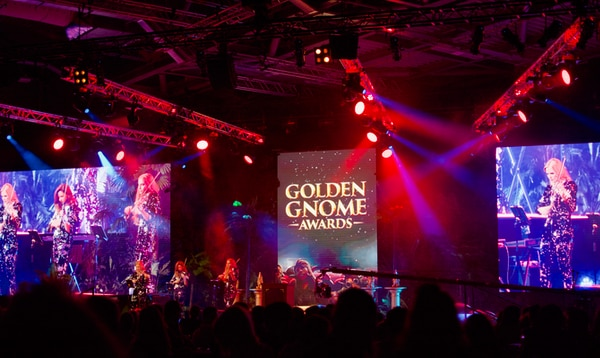
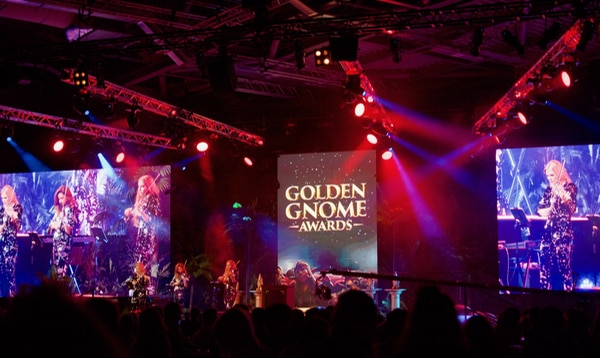
support p3 color gamut in modal

diff --git a/index.html b/index.html
@@ -46,7 +46,6 @@
         </div>
     </header>
     <main class="container">
-        <!-- <button class="toogle button" type="button">toogle</button> -->
         <!-- INTRO -->
         <section>
             <p>Riblet's big words here. 2020 has been a humanitarian disaster on a global scale and a fantastic year of growth for the RuneScapes Wiki. We are Weird Gloop, the organisation behind the sites, and we'd like to share this year's successes with you.</p>
@@ -315,15 +314,15 @@
         <!-- TECHNICAL -->
         <section>
             <h2 id="technical">Technical changes</h2>
-            <p>This past November, we made some big changes to how we handle Grand Exchange prices. We moved historical price data off the wikis to <a class="link" target="_blank" rel="noopener" href="https://api.weirdgloop.org/">api.weirdgloop.org</a>, stopped updating each item's module page in favor of putting all prices in a single bulk module, and deleted old revisions of those item module pages (which contained historical data).</p>
-            <p>By doing so, we deleted roughly 73% of all revisions on the site, including 66% of <abbr title="RuneScape Wiki">RSW</abbr>, 84% of <abbr title="Old School RuneScape Wiki">OSRSW</abbr>, and 95% of <abbr title="Portuguese-Brazilian RuneScape Wiki">pt-RSW</abbr>. This has a huge impact on the portability of the database, both for migrations and possible future ephemeral versions of the wikis. Our Grand Exchange bot also now makes around a dozen edits a day instead of 18,000, which means better performance for caching, the job queue, and our web servers.</p>
-            <p>Third-party scrapers can use our new API (which is heavily cached) instead of hitting our wiki web servers. We hope this makes it easier for people to make cool things that rely on Grand Exchange prices, especially since the official APIs are difficult to use programmatically.</p>
+            <p>This past November, we made some big changes to how we handle Grand Exchange prices. We moved historical price data off the wikis to <a class="link" target="_blank" rel="noopener" href="https://api.weirdgloop.org/">api.weirdgloop.org</a>, stopped updating individual items' pages in favor of accessing prices from a single bulk module, and deleted old revisions of those item pages.</p>
+            <p>By doing so, we removed roughly 73% of all revisions on the site, including 66% of <abbr title="RuneScape Wiki">RSW</abbr>, 84% of <abbr title="Old School RuneScape Wiki">OSRSW</abbr>, and 95% of <abbr title="Portuguese-Brazilian RuneScape Wiki">pt-RSW</abbr>. This has a huge impact on the portability of the database, both for migrations and possible future ephemeral versions of the wikis. Our Grand Exchange bot now makes around a dozen edits a day instead of 18,000 (one for each item), which means better performance for caching, the job queue, and our web servers.</p>
+            <p>Third-party scrapers can use <a class="link" target="_blank" rel="noopener" href="https://api.weirdgloop.org/">our new API</a>, which is heavily cached, instead of hitting our wiki web servers. We hope this makes it easier for people to make cool things that rely on Grand Exchange prices, especially since the official APIs are difficult to use programmatically. (REPLACE THIS SENTENCE)</p>
         </section>
         <!-- QUIZ -->
         <section>
             <h2 id="quiz">Trivia quiz</h2>
             <p>Riblet's big words here. Riblet's big words here. Riblet's big words here. Riblet's big words here. Riblet's big words here. Riblet's big words here. Riblet's big words here. Riblet's big words here.</p>
-            <p class="pick">Choose a version of the game to start. If you want to try both, you'll get the opportunity to choose again when you've finished the first quiz.</p>
+            <p>Choose a version of the game to start. If you want to try both, you'll get the opportunity to choose again when you've finished the first quiz.</p>
             <div class="quiz"></div>
             <div class="quiz-results"></div>
             <template class="template-group">
@@ -340,7 +339,10 @@
             <h2 id="closing">In memoriam</h2>
             <p>Something about how happy we are to have won Community Champion in this year's <a class="link" target="_blank" rel="noopener" href="https://secure.runescape.com/m=news/10th-annual-golden-gnome-awards-the-winners-are-revealed">10th Annual Golden Gnome Awards</a>. Thank readers, editors, etc. Riblet's big words here. Riblet's big words here. Riblet's big words here.</p>
             <figure class="figure">
-                <img class="thumb" src="images/runefest-thumb.jpg" srcset="images/runefest-thumb@2x.jpg 2x" data-src="images/runefest-full.jpg" alt="The Golden Gnome Awards at RuneFest 2019" />
+                <picture class="picture" data-src-full="images/runefest-full.jpg" data-src-full-p3="images/runefest-full-p3.jpg">
+                    <source media="(color-gamut: p3)" srcset="images/runefest-thumb-p3.jpg, images/runefest-thumb-p3@2x.jpg 2x" />
+                    <img class="thumb" src="images/runefest-thumb.jpg" srcset="images/runefest-thumb@2x.jpg 2x" alt="Musicians performing onstage at the Golden Gnome Awards during RuneFest 2019" />
+                </picture>
                 <figcaption>The Golden Gnome Awards at RuneFest 2019. Unfortunately, we couldn't be there in person this year.</figcaption>
             </figure>
             <p>Paragraph about how you can get involved. Talk about OSWF, previous projects, future projects, how to sign up, how to access the wiki from in-game. Riblet's big words here. Riblet's big words here. Riblet's big words here. Riblet's big words here. Riblet's big words here. Riblet's big words here. Riblet's big words here. Riblet's big words here.</p>

diff --git a/scripts/main.js b/scripts/main.js
@@ -340,7 +340,7 @@
                     text: "Traffic rises as COVID-19 lockdowns begin"
                 }, {
                     x: "2020/05/01",
-                    text: "Traffic drops as US states gradually reopen",
+                    text: "Traffic drops as countries worldwide reopen",
                     tickHeight: 15
                 }, {
                     x: "2020/06/04",
@@ -420,7 +420,6 @@
                 button.classList.add('quiz-start', 'button');
                 button.textContent = text;
                 button.addEventListener('click', function () {
-                    get('.pick').style.display = 'none';
                     get('.quiz-button-group').remove();
                     setupQuestions(game);
                 }, false);
@@ -528,8 +527,7 @@
             function showResults() {
                 let resultsNode = get('.quiz-results'),
                     scoreNode = document.createElement('h3'),
-                    descNode = document.createElement('p'),
-                    score = correct / total;
+                    descNode = document.createElement('p');
 
                 resultsNode.style.display = 'block';
                 resultsNode.appendChild(scoreNode);
@@ -539,16 +537,15 @@
                 scoreNode.style.fontSize = '1.25em';
                 descNode.style.marginBottom = '0';
 
-                // @TODO: write nicer messages
-                if (score >= 0.7) {
-                    descNode.textContent = 'Very good. If you haven\'t already, you should sign up for our OSWF tasks and help us blahblah.';
-                } else if (score > 0.3) {
-                    descNode.textContent = 'it\'s okay i guess.';
+                if (correct >= 7) {
+                    descNode.innerHTML = 'Very good. You should consider helping us with our <a class="link" target="_blank" rel="noopener" href="https://runescape.wiki/w/RuneScape:One_Small_Wiki_Favour">RS Wiki</a> and <a class="link" target="_blank" rel="noopener" href="https://oldschool.runescape.wiki/w/RuneScape:One_Small_Wiki_Favour">OSRS Wiki projects</a> – we\'ll even pay you for your hard work!';
+                } else if (correct >= 4) {
+                    descNode.textContent = 'Not too bad.';
                 } else {
-                    descNode.textContent = 'you fuckin idiot. consider reading the runescape wiki for once in your life.';
+                    descNode.textContent = 'Maybe you should spend a little more time on the wiki.';
                 }
 
-                descNode.innerHTML += ' Would you like to try <span class="link reset-quiz" role="button">our other quiz</span>?';
+                descNode.innerHTML += '<br style="content: \'\'; display: block; margin-bottom: .75em;" /><span class="link reset-quiz" role="button">Click here to try the other quiz →</span>';
                 get('.reset-quiz').addEventListener('click', resetQuiz, false);
 
                 function resetQuiz() {
@@ -558,7 +555,6 @@
                     resultsNode.textContent = '';
                     resultsNode.removeAttribute('style');
 
-                    get('.pick').style.display = 'block';
                     get('#quiz').scrollIntoView({behavior: 'smooth'});
                     buildQuiz();
                 }
@@ -566,16 +562,21 @@
         }
     }
 
-    function initImage() {
-        let thumb = get('.thumb');
+    function initModal() {
+        let picture = get('.picture');
+        let src = 'srcFull';
 
-        thumb.addEventListener('mouseover', preloadFullImage, { once: true });
-        thumb.addEventListener('click', showModal, false);
+        // use different image depending on if user's display supports P3
+        // <https://webkit.org/blog/10042/wide-gamut-color-in-css-with-display-p3/>
+        if (window.matchMedia('(color-gamut: p3)').matches) src = 'srcFullP3';
+
+        picture.addEventListener('mouseover', preloadFullImage, { once: true });
+        picture.addEventListener('click', showModal, false);
 
         function preloadFullImage(event) {
             let preloader = document.createElement('link');
 
-            preloader.href = event.currentTarget.dataset.src;
+            preloader.href = event.currentTarget.dataset[src];
             preloader.rel = 'preload';
             preloader.as = 'image';
 
@@ -593,23 +594,24 @@
             modal.addEventListener('click', closeModal, false);
 
             image.classList.add('image');
-            image.src = event.currentTarget.dataset.src;
+            image.src = event.currentTarget.dataset[src];
 
             note.classList.add('note');
             note.textContent = 'Click anywhere or press Esc to close.';
 
-            document.addEventListener('keydown', escToClose, false);
             document.body.style.overflow = 'hidden';
             document.body.appendChild(modal);
-        }
-
-        function escToClose(event) {
-            if (event.key === 'Escape') closeModal();
+            document.addEventListener('keydown', escToClose, false);
         }
 
         function closeModal() {
             get('.modal').remove();
             document.body.removeAttribute('style'); // unset overflow: hidden
+            document.removeEventListener('keydown', escToClose, false);
+        }
+
+        function escToClose(event) {
+            if (event.key === 'Escape') closeModal();
         }
     }
 
@@ -618,5 +620,5 @@
     initTabs();
     initGraph();
     initQuiz();
-    initImage();
+    initModal();
 }());

diff --git a/styles/main.css b/styles/main.css
@@ -156,6 +156,14 @@ p abbr {
     text-decoration: underline;
 }
 
+.thumb {
+    display: block;
+    max-width: 100%;
+    border-radius: var(--border-radius);
+    box-shadow: var(--shadow-02);
+    margin: auto;
+}
+
 /* hide focus ring when using a mouse (but keep it for keyboard navigation)
    using polyfill from <https://github.com/WICG/focus-visible> */
 .js-focus-visible :focus:not(.focus-visible) {
@@ -572,12 +580,16 @@ section + section {
 
 .button:hover,
 .button:focus {
-    filter: brightness(.95) saturate(1.3);
+    filter: brightness(.96) saturate(2);
 }
 
 /* ------------
        TABS
    ------------ */
+
+.tab-container {
+    margin-top: 2em;
+}
 
 .tab-list {
     --tab-count: 4;
@@ -591,7 +603,7 @@ section + section {
     background-color: var(--bg-01);
     border-radius: calc(var(--border-radius) + var(--tab-gap));
     box-shadow: inset 0 2px 4px -1px rgba(0, 0, 0, .025);
-    margin: 2em auto 1em;
+    margin: 0 auto 1em;
     width: 85%;
     max-width: 32em;
 }
@@ -680,7 +692,7 @@ section + section {
     display: grid;
     grid-template-columns: repeat(3, 1fr);
     grid-gap: 1em;
-    margin: 0 var(--breakout-margin) 3.5em;
+    margin: 0 var(--breakout-margin);
 }
 
 .stat {
@@ -859,7 +871,7 @@ section + section {
     background-color: var(--bg-03);
     border-radius: var(--border-radius);
     padding: 1.5em 1.75em 1.35em;
-    margin: 2em 0;
+    margin: 2em 0 2.25em;
     box-shadow: var(--shadow-03);
     position: relative;
 }
@@ -1015,9 +1027,17 @@ section + section {
 }
 
 .quiz-start {
-    color: var(--text-02);
-    background-color: #e8eaea;
     padding: 2em .5em;
+}
+
+.quiz-start:first-child {
+    color: #2a5877;
+    background-color: #edf3f7;
+}
+
+.quiz-start:last-child {
+    color: #52452b;
+    background-color: #f5f1eb;
 }
 
 .quiz-group {
@@ -1062,13 +1082,13 @@ section + section {
 }
 
 .rs .unanswered .quiz-choice {
-    color: #22455d;
+    color: #2a5877;
     background-color: #edf3f7;
 }
 
 .osrs .unanswered .quiz-choice {
-    color: #5a4a2c;
-    background-color: #f5f3ef;
+    color: #52452b;
+    background-color: #f5f1eb;
 }
 
 .selected,
@@ -1111,6 +1131,11 @@ section + section {
     width: 90%;
 }
 
+.reset-quiz {
+    color: inherit;
+    font-weight: bold;
+}
+
 @media screen and (max-width: 450px) {
 
     .quiz-button-group {
@@ -1136,20 +1161,6 @@ section + section {
        ENDING
    -------------- */
 
-.modal {
-    position: fixed;
-    top: 0;
-    left: 0;
-    bottom: 0;
-    right: 0;
-    display: flex;
-    flex-direction: column;
-    justify-content: center;
-    align-items: center;
-    background-color: rgba(0, 0, 0, .75);
-    cursor: pointer;
-}
-
 figure {
     max-width: 70%;
     margin: 2em auto;
@@ -1161,25 +1172,37 @@ figcaption {
     margin-top: .75em;
 }
 
-.thumb {
-    display: block;
-    max-width: 100%;
-    border-radius: var(--border-radius);
-    box-shadow: var(--shadow-02);
-    margin: auto;
+figure .thumb {
     cursor: pointer;
     transition: .4s var(--ease-out-quad);
 }
 
-.thumb:hover {
-    transform: scale(1.02);
+figure .thumb:hover {
+    transform: scale(1.015);
+}
+
+.modal {
+    position: fixed;
+    top: 0;
+    left: 0;
+    bottom: 0;
+    right: 0;
+    display: flex;
+    flex-direction: column;
+    justify-content: center;
+    align-items: center;
+    background-color: rgba(0, 0, 0, .75);
+    -webkit-backdrop-filter: blur(5px);
+    backdrop-filter: blur(5px);
+    cursor: pointer;
 }
 
 .image {
     display: block;
-    max-width: 94vw;
-    max-height: 94vh;
+    max-width: 93vw;
+    max-height: 93vh;
     box-shadow: var(--shadow-02);
+    animation: .65s modal-entry cubic-bezier(0.22, 1, 0.36, 1); /* <https://easings.net/#easeOutQuint> */
 }
 
 .note {
@@ -1198,6 +1221,20 @@ figcaption {
 
     figure {
         max-width: 90%;
+    }
+
+}
+
+@keyframes modal-entry {
+
+    from {
+        transform: scale(0.96);
+        opacity: 0;
+    }
+
+    to {
+        transform: scale(1);
+        opacity: 1;
     }
 
 }
